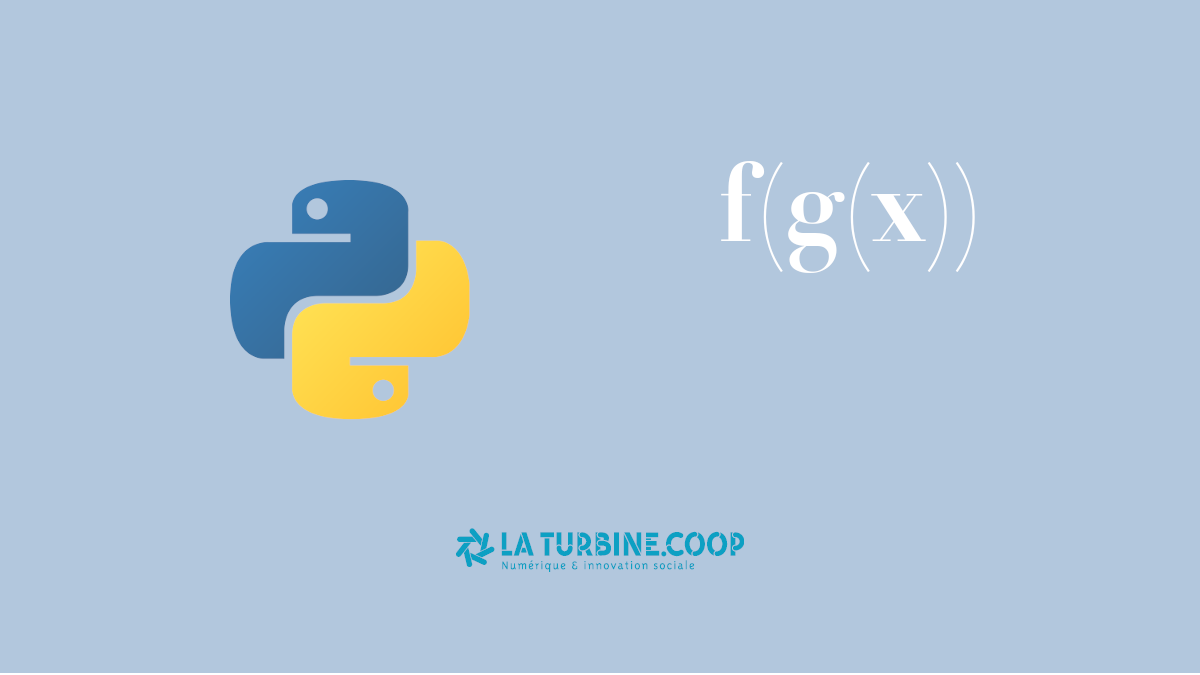
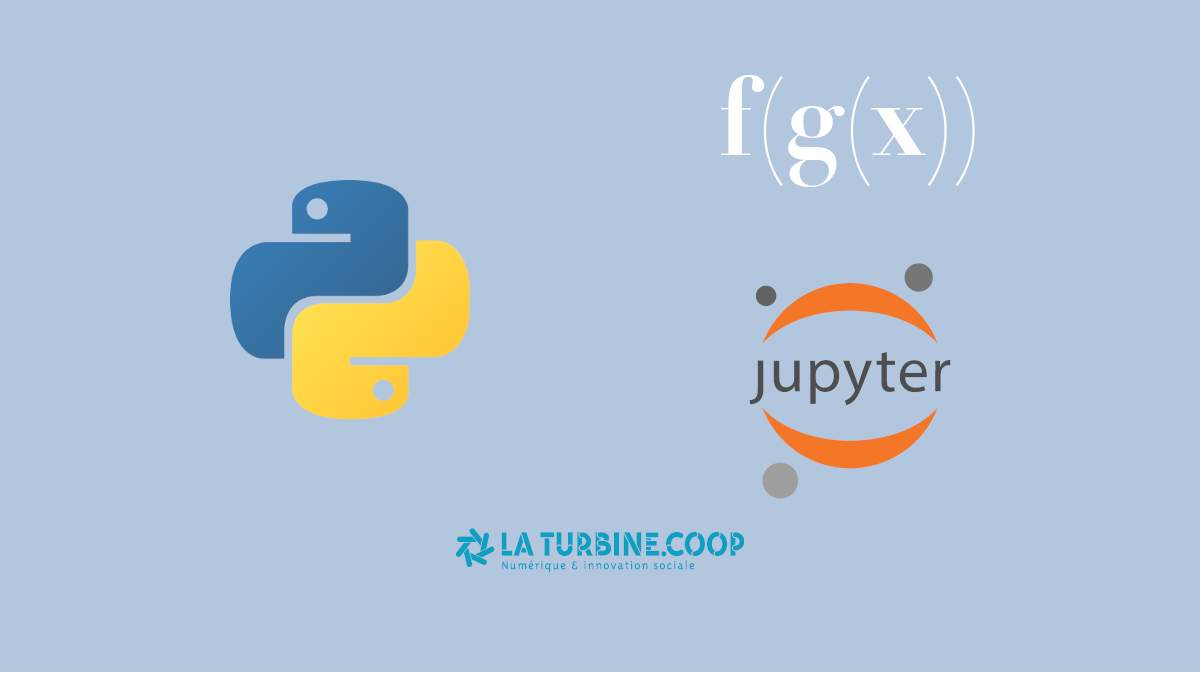
Finalize event

diff --git a/content/events/2023-11-23/index.md b/content/events/2023-11-23/index.md
@@ -1,6 +1,6 @@
 ---
 template: event.html
-title: Programmation fonctionnelle et pipelines de données
+title: Pipelines de données fonctionnels + L'avenir de l'éducation en IA avec Jupyter
 date: 2023-11-23
 category: talk
 language: fr
@@ -19,7 +19,7 @@ Pour ce meetup de novembre 2023, deux présentations au programme !
 
 Merci à la [Turbine.coop](https://turbine.coop/) de continuer à nous accueillir dans ses locaux.
 
-**Programmation fonctionnelle et pipelines de données** (Romain Clement)
+**Pipelines de données fonctionnels** (Romain Clement)
 
 Le développement de pipelines de traitement de données repose généralement sur le paradigme de "graphes orientés acycliques" (DAG). Penser un problème sous la forme d'un graphe permet de modulariser chaque étape et de définir précisément les dépendances et l'ordre d'exécution.
 
@@ -29,7 +29,7 @@ Nous verrons ensemble des exemples concrets d'utilisation de concepts de program
 
 [Romain Clement](https://www.linkedin.com/in/romainclement/) est ingénieur et formateur indépendant en traitement de données et intelligence artificielle, et organisateur du Meetup Python Grenoble.
 
-Technologies : `functools`, `itertools`, générateurs
+Technologies : [`functools`](https://docs.python.org/3/library/functools.html), [`itertools`](https://docs.python.org/3/library/itertools.html), [générateurs](https://docs.python.org/3/glossary.html#term-generator)
 
 **Construire l'avenir de l'éducation en IA avec Jupyter** (Pierre-Loïc Bayart)
 
